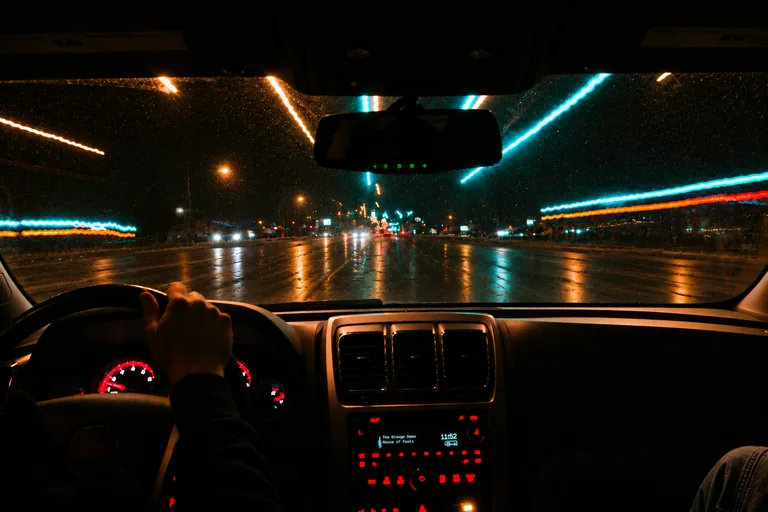
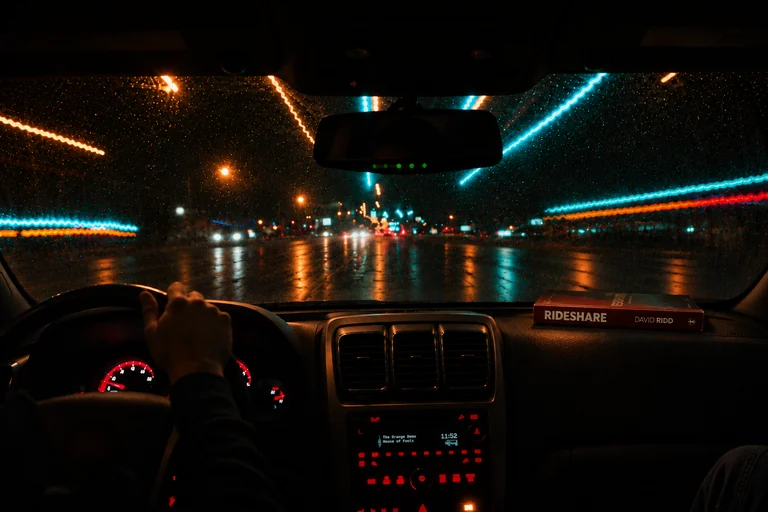
Add files via upload

diff --git a/books/rideshare/index.html b/books/rideshare/index.html
@@ -6,20 +6,21 @@
   <meta http-equiv="Content-Security-Policy" content="default-src 'self'; script-src 'self' https://gc.zgo.at; style-src 'self' https://fonts.googleapis.com; font-src https://fonts.gstatic.com; img-src 'self' data: https://*.goatcounter.com; connect-src https://*.goatcounter.com; frame-src https://bipedalpress.substack.com; form-action 'self'; base-uri 'self'; object-src 'none'">
   <meta name="referrer" content="strict-origin-when-cross-origin">
   <title>RIDESHARE by David Ridd | Dystopian Fiction | Bipedal Press</title>
-  <meta name="description" content="RIDESHARE is dystopian literary fiction by David Ridd, the first book from Bipedal Press. Watch the teaser, meet the author, and join the newsletter.">
+  <meta name="description" content="No one expects the bomb to drop. RIDESHARE is dystopian literary fiction by David Ridd, the first book from Bipedal Press. See the cover and sign up.">
   <link rel="canonical" href="https://bipedalpress.com/books/rideshare/">
   <meta property="og:type" content="website">
   <meta property="og:site_name" content="Bipedal Press">
   <meta property="og:title" content="RIDESHARE by David Ridd | Dystopian Fiction | Bipedal Press">
-  <meta property="og:description" content="Dystopian literary fiction by David Ridd, the first book from Bipedal Press. Watch the teaser and join the newsletter for the cover reveal.">
+  <meta property="og:description" content="No one expects the bomb to drop. See the cover of RIDESHARE, dystopian literary fiction by David Ridd.">
   <meta property="og:image" content="https://bipedalpress.com/images/rideshare-og.jpg">
   <meta property="og:image:width" content="1200">
   <meta property="og:image:height" content="630">
-  <meta property="og:image:alt" content="The view from a car at night on a wet city road, with the Bipedal Press logo in the rearview mirror.">
+  <meta property="og:image:alt" content="The cover of RIDESHARE: A Prelude by David Ridd, a red and charcoal hardcover with the title in large white letters.">
   <meta property="og:url" content="https://bipedalpress.com/books/rideshare/">
   <meta name="twitter:card" content="summary_large_image">
   <meta name="twitter:title" content="RIDESHARE by David Ridd | Dystopian Fiction | Bipedal Press">
   <meta name="twitter:image" content="https://bipedalpress.com/images/rideshare-og.jpg">
+  <meta name="twitter:image:alt" content="The cover of RIDESHARE: A Prelude by David Ridd, a red and charcoal hardcover with the title in large white letters.">
   <meta name="theme-color" content="#07060b">
   <link rel="icon" href="../../favicon.ico" sizes="any">
   <link rel="icon" type="image/png" href="../../images/favicon.png">
@@ -62,7 +63,9 @@
     "name": "Bipedal Press",
     "url": "https://bipedalpress.com/"
   },
-  "description": "The first book from Bipedal Press."
+  "alternativeHeadline": "A Prelude",
+  "image": "https://bipedalpress.com/books/rideshare/rideshare-cover.webp",
+  "description": "No one expects the bomb to drop. A firing-squad execution of seventeen soldiers puts rideshare driver Victor Hartwell’s hometown of Foster on the national stage, and makes traffic hell. Pushing through chronic sleep deprivation and dreaming of a call he knows won’t come, Vic hustles to pay back an impossible debt, or at least catch a movie. His back seat is a cross-section of a city consumed by whispers of civil war, the seductive solace of synthetic relationships, and the tightening threads of megacorps as people escape into Ether. Here, strangers connect and unravel. Through his rearview mirror, Vic becomes entangled in the undoing of some, the stubborn persistence of others, and the insulated glamour of executives thriving in the chaos. RIDESHARE weaves Vic’s story with found footage, in-world documents, and testimonies that reveal the widening cracks of society on a day that everyone will remember—when all Vic wants to do is forget."
 }
   </script>
   <script type="application/ld+json">
@@ -102,15 +105,16 @@
       <header class="rs-hero">
         <h1 id="rs-title" class="rs-title">RIDESHARE</h1>
         <p class="rs-by">by David Ridd</p>
-        <p class="rs-sub">The first book from Bipedal Press. Cover reveal November 20.</p>
+        <p class="rs-sub">The first book from Bipedal Press. Cover revealed November 20.</p>
       </header>
       <figure class="scene">
         <picture>
           <source media="(max-width: 700px)" srcset="rideshare-car-768.webp">
-          <img class="scene-photo" fetchpriority="high" src="rideshare-car.webp" width="1536" height="1024" alt="The view from the passenger seat of a car driving a wet city road at night. Streaks of cyan, orange, and white light stretch across the rainy windshield. A hand rests on the steering wheel, the dashboard glows red, and the rearview mirror shows the Bipedal Press logo.">
+          <img class="scene-photo" fetchpriority="high" src="rideshare-car.webp" width="1536" height="1024" alt="The view from the passenger seat of a car driving a wet city road at night. Streaks of cyan, orange, and white light stretch across the rainy windshield. A hand rests on the steering wheel, the dashboard glows red, the radio shows The Orange Demo by House of Fools, and the rearview mirror shows the Bipedal Press logo. A copy of RIDESHARE by David Ridd rests on the dashboard.">
         </picture>
         <div class="scene-hs" aria-hidden="true">
           <button type="button" class="hs hs-mirror" data-open="dlg-teaser" tabindex="-1"><img class="hs-glass" src="rideshare-mirror-glass.webp" alt="" width="702" height="188"><span class="hs-chip hs-chip-below">Teaser</span></button>
+          <button type="button" class="hs hs-cover" data-open="dlg-cover" tabindex="-1"><span class="hs-chip hs-chip-below">The cover</span></button>
           <button type="button" class="hs hs-visor" data-open="dlg-review" tabindex="-1"><span class="hs-chip">Review copies</span></button>
           <button type="button" class="hs hs-wheel" data-open="dlg-author" tabindex="-1"><span class="hs-chip">The author</span></button>
           <button type="button" class="hs hs-gauges" data-open="dlg-count" tabindex="-1"><span class="hs-chip">Countdown</span></button>
@@ -120,11 +124,12 @@
       </figure>
     </div>
 
-    <nav class="rs-bar" aria-label="RIDESHARE: teaser, countdown, newsletter, glovebox, author, and review copies">
+    <nav class="rs-bar" aria-label="RIDESHARE: the cover, teaser, countdown, newsletter, glovebox, author, and review copies">
       <ul>
+        <li><button type="button" class="is-primary" data-open="dlg-cover" aria-haspopup="dialog"><span class="led" aria-hidden="true"></span><span class="b-name">The cover</span><span class="b-sub">See it first</span></button></li>
         <li><button type="button" data-open="dlg-teaser" aria-haspopup="dialog"><span class="led" aria-hidden="true"></span><span class="b-name">Teaser</span><span class="b-sub">Watch the video</span></button></li>
-        <li><button type="button" data-open="dlg-count" aria-haspopup="dialog"><span class="led" aria-hidden="true"></span><span class="b-name">Countdown</span><span class="b-sub">Cover reveal</span></button></li>
-        <li><button type="button" class="is-primary" data-open="dlg-news" aria-haspopup="dialog"><span class="led" aria-hidden="true"></span><span class="b-name">Tune in</span><span class="b-sub">Get the news</span></button></li>
+        <li><button type="button" data-open="dlg-count" aria-haspopup="dialog"><span class="led" aria-hidden="true"></span><span class="b-name">Countdown</span><span class="b-sub">Reveal day</span></button></li>
+        <li><button type="button" data-open="dlg-news" aria-haspopup="dialog"><span class="led" aria-hidden="true"></span><span class="b-name">Tune in</span><span class="b-sub">Get the news</span></button></li>
         <li><button type="button" data-open="dlg-glove" aria-haspopup="dialog"><span class="led" aria-hidden="true"></span><span class="b-name">Glovebox</span><span class="b-sub">Read the definition</span></button></li>
         <li><button type="button" data-open="dlg-author" aria-haspopup="dialog"><span class="led" aria-hidden="true"></span><span class="b-name">The author</span><span class="b-sub">Meet David Ridd</span></button></li>
         <li><button type="button" data-open="dlg-review" aria-haspopup="dialog"><span class="led" aria-hidden="true"></span><span class="b-name">Review copies</span><span class="b-sub">Ask for an early copy</span></button></li>
@@ -134,14 +139,37 @@
 
     <section class="rs-info" aria-labelledby="rs-info-h">
       <h2 id="rs-info-h">About RIDESHARE</h2>
-      <p>RIDESHARE by David Ridd is dystopian literary fiction, and the first book from Bipedal Press, an independent publisher in Hickory, NC. It&rsquo;s a first-person narrative with archival elements. It&rsquo;s coming soon, and we&rsquo;ll reveal the cover on November 20.</p>
-      <p>
-        <button type="button" class="rs-textbtn" data-open="dlg-teaser" aria-haspopup="dialog">Watch the teaser</button>,
-        <button type="button" class="rs-textbtn" data-open="dlg-author" aria-haspopup="dialog">meet the author</button>, or
-        <button type="button" class="rs-textbtn" data-open="dlg-news" aria-haspopup="dialog">join the newsletter</button>
-        to be the first to know. You can also <a href="rideshare-cover-reveal.ics" download>add the cover reveal to your calendar</a>.
-      </p>
+      <div class="rs-about">
+        <button type="button" class="rs-cover-btn" data-open="dlg-cover" aria-haspopup="dialog" aria-label="Open the RIDESHARE cover">
+          <img src="rideshare-cover-600.webp" width="447" height="600" alt="The cover of RIDESHARE: A Prelude by David Ridd, shown as a hardcover book standing at an angle. The left side is red with a faint map of city streets. A dark charcoal inkblot spreads in from the right edge. The title RIDESHARE is in large white capital letters, with A PRELUDE beneath it. Near the bottom it reads &ldquo;The co-author of In Your Corner&rdquo; above the name DAVID RIDD.">
+        </button>
+        <div class="rs-about-text">
+          <p class="rs-tagline"><strong>No one expects the bomb to drop.</strong></p>
+          <p>A firing-squad execution of seventeen soldiers puts rideshare driver Victor Hartwell&rsquo;s hometown of Foster on the national stage, and makes traffic hell.</p>
+          <p>Pushing through chronic sleep deprivation and dreaming of a call he knows won&rsquo;t come, Vic hustles to pay back an impossible debt, or at least catch a movie. His back seat is a cross-section of a city consumed by whispers of civil war, the seductive solace of synthetic relationships, and the tightening threads of megacorps as people escape into Ether.</p>
+          <p>Here, strangers connect and unravel. Through his rearview mirror, Vic becomes entangled in the undoing of some, the stubborn persistence of others, and the insulated glamour of executives thriving in the chaos.</p>
+          <p>RIDESHARE weaves Vic&rsquo;s story with found footage, in-world documents, and testimonies that reveal the widening cracks of society on a day that everyone will remember&mdash;when all Vic wants to do is forget.</p>
+          <p class="rs-about-cta"><button type="button" class="rs-btn" data-open="dlg-news" aria-haspopup="dialog">Sign up for updates on the release</button></p>
+          <p>
+            <button type="button" class="rs-textbtn" data-open="dlg-cover" aria-haspopup="dialog">See the cover</button>,
+            <button type="button" class="rs-textbtn" data-open="dlg-teaser" aria-haspopup="dialog">watch the teaser</button>, or
+            <button type="button" class="rs-textbtn" data-open="dlg-author" aria-haspopup="dialog">meet the author</button>.
+          </p>
+        </div>
+      </div>
+      <p class="rs-facts">RIDESHARE: A Prelude by David Ridd is dystopian literary fiction, and the first book from Bipedal Press, an independent publisher in Hickory, NC. It&rsquo;s a first-person narrative with archival elements. We revealed the cover on November 20, 2026.</p>
 
+    </section>
+
+    <section class="rs-road" aria-label="RIDESHARE on the road">
+      <picture>
+        <source media="(max-width: 700px)" srcset="rideshare-pavement-800.webp">
+        <img src="rideshare-pavement.webp" width="1424" height="1104" loading="lazy" alt="A paperback copy of RIDESHARE: A Prelude by David Ridd lying on cracked, wet asphalt at night beside a faded white road line. Red light from a puddle glows in the top corner.">
+      </picture>
+      <p class="rs-road-cta"><button type="button" class="rs-btn" data-open="dlg-news" aria-haspopup="dialog">Sign up for updates on the release</button></p>
+    </section>
+
+    <section class="rs-info">
       <h2>What is prealization?</h2>
       <div class="rs-def">
         <p class="rs-def-term">Prealization (noun):</p>
@@ -182,6 +210,27 @@
         <p>2. The process of adopting an idea or conclusion that feels like a personal epiphany but was subtly placed in one&rsquo;s mental path by technology.</p>
         <p>Black screen. Then: &ldquo;coming soon&rdquo;</p>
       </details>
+    </div>
+  </dialog>
+
+  <dialog class="rs-dialog rs-dialog-cover" id="dlg-cover" aria-labelledby="dlg-cover-h">
+    <div class="rs-dialog-in">
+      <button type="button" class="rs-close" data-close aria-label="Close the cover">&times;</button>
+      <h2 id="dlg-cover-h" class="rs-dialog-h">RIDESHARE: A Prelude</h2>
+      <div class="cover-grid">
+        <div class="cover-col">
+          <img class="cover-img" src="rideshare-cover.webp" width="846" height="1134" alt="The cover of RIDESHARE: A Prelude by David Ridd, shown as a hardcover book standing at an angle. The left side is red with a faint map of city streets. A dark charcoal inkblot spreads in from the right edge. The title RIDESHARE is in large white capital letters, with A PRELUDE beneath it. Near the bottom it reads &ldquo;The co-author of In Your Corner&rdquo; above the name DAVID RIDD.">
+          <p class="cover-cta"><button type="button" class="rs-btn" data-open="dlg-news" aria-haspopup="dialog">Sign up for updates on the release</button></p>
+        </div>
+        <div class="cover-text">
+          <p class="rs-tagline"><strong>No one expects the bomb to drop.</strong></p>
+          <p>A firing-squad execution of seventeen soldiers puts rideshare driver Victor Hartwell&rsquo;s hometown of Foster on the national stage, and makes traffic hell.</p>
+          <p>Pushing through chronic sleep deprivation and dreaming of a call he knows won&rsquo;t come, Vic hustles to pay back an impossible debt, or at least catch a movie. His back seat is a cross-section of a city consumed by whispers of civil war, the seductive solace of synthetic relationships, and the tightening threads of megacorps as people escape into Ether.</p>
+          <p>Here, strangers connect and unravel. Through his rearview mirror, Vic becomes entangled in the undoing of some, the stubborn persistence of others, and the insulated glamour of executives thriving in the chaos.</p>
+          <p>RIDESHARE weaves Vic&rsquo;s story with found footage, in-world documents, and testimonies that reveal the widening cracks of society on a day that everyone will remember&mdash;when all Vic wants to do is forget.</p>
+          <p class="rs-small">Cover revealed November 20, 2026.</p>
+        </div>
+      </div>
     </div>
   </dialog>
 

diff --git a/books/rideshare/rideshare.css b/books/rideshare/rideshare.css
@@ -19,8 +19,9 @@ body.rs { background: #07060b; color: var(--cream); }
 
 /* ---------- The button bar ---------- */
 .rs-bar { max-width: 78rem; margin: 0 auto; padding: 1.25rem var(--gutter) 1.5rem; }
-.rs-bar ul { list-style: none; margin: 0; padding: 0; display: grid; grid-template-columns: repeat(6, 1fr); gap: 0.7rem; }
-.rs-bar li { margin: 0; padding: 0; }
+.rs-bar ul { list-style: none; margin: 0; padding: 0; display: flex; flex-wrap: wrap; justify-content: center; gap: 0.7rem; }
+.rs-bar li { display: flex; margin: 0; padding: 0; flex: 0 0 calc((100% - 2.1rem) / 4); }
+@media (min-width: 1100px) { .rs-bar li { flex-basis: calc((100% - 4.2rem) / 7); } }
 .rs-bar button {
   position: relative; display: flex; flex-direction: column; gap: 0.15rem; align-items: flex-start; width: 100%; min-height: 4rem;
   padding: 0.75rem 0.8rem 0.7rem 1.9rem; text-align: left; cursor: pointer; font: inherit; color: var(--cream);
@@ -46,6 +47,7 @@ body.rs { background: #07060b; color: var(--cream); }
 }
 .hs:hover { background: rgba(222,186,96,0.08); box-shadow: inset 0 0 0 2px var(--gilt), 0 0 26px rgba(222,186,96,0.5); }
 .hs-mirror { left: 40.9%; top: 21.3%; width: 24.4%; height: 12.6%; border-radius: 22px; }
+.hs-cover  { left: 68.8%; top: 55%;   width: 23.6%; height: 11%;  border-radius: 6px; }
 .hs-visor  { left: 1%;    top: 4.4%;  width: 23.5%; height: 7%;   }
 .hs-wheel  { left: 1.9%;  top: 54.7%; width: 28.6%; height: 14.2%; }
 .hs-gauges { left: 11.1%; top: 68.9%; width: 28%;   height: 14.2%; }
@@ -79,6 +81,13 @@ body.rs { background: #07060b; color: var(--cream); }
 .rs-info h2 { margin: 2.2em 0 0.4em; font-size: clamp(1.5rem, 1.25rem + 1vw, 2rem); }
 .rs-info h2:first-child { margin-top: 0; }
 .rs-info p { max-width: none; color: rgba(255,241,211,0.9); }
+.rs-road { position: relative; width: min(100%, 1600px); margin: 0 auto; background: #07060b; }
+.rs-road img { display: block; width: 100%; height: auto; aspect-ratio: 16 / 9; object-fit: cover; object-position: 50% 50%; }
+.rs-road-cta { position: absolute; left: clamp(1rem, 5vw, 4.5rem); bottom: clamp(1rem, 7%, 3.5rem); margin: 0; }
+@media (max-width: 700px) {
+  .rs-road img { aspect-ratio: 4 / 3; }
+  .rs-road-cta { position: static; padding: 1.1rem var(--gutter) 0; text-align: center; }
+}
 .rs-def { padding: 1.1rem 1.3rem; border: 1px solid rgba(255,241,211,0.3); border-radius: 8px; font-family: "Courier New", Courier, monospace; }
 .rs-def p { margin: 0.6rem 0 0; }
 .rs-def .rs-def-term { margin: 0; font-weight: 700; font-size: 1.15rem; }
@@ -125,6 +134,25 @@ h2.rs-type { font-family: "Courier New", Courier, monospace; font-weight: 700; f
 .rv-list li { margin: 0.35rem 0; }
 .rv-list li::marker { color: var(--gilt); }
 
+/* cover */
+.rs-dialog-cover { width: min(94vw, 52rem); }
+.rs-dialog-cover .rs-dialog-h { text-align: left; }
+.cover-grid { display: grid; grid-template-columns: minmax(0, 0.85fr) minmax(0, 1.15fr); gap: clamp(1rem, 3vw, 1.75rem); align-items: start; }
+.cover-col { position: sticky; top: 0; text-align: center; }
+.cover-cta { margin: 0.9rem 0 0; }
+.cover-img { display: block; width: 100%; height: auto; max-height: 56svh; object-fit: contain; }
+.cover-text > p:first-child { margin-top: 0; }
+.rs-tagline { font-size: 1.15rem; }
+.rs-btn-row, .rs-about-cta { margin: 1.1rem 0; }
+@media (max-width: 640px) { .cover-grid { grid-template-columns: 1fr; } .cover-col { position: static; } .cover-img { max-width: 15rem; margin: 0 auto; } }
+.rs-about { display: grid; grid-template-columns: minmax(0, 12rem) minmax(0, 1fr); gap: clamp(1.25rem, 4vw, 2rem); align-items: start; }
+.rs-cover-btn { display: block; padding: 0; cursor: pointer; background: none; border: 0; border-radius: 6px; }
+.rs-cover-btn img { display: block; width: 100%; height: auto; transition: transform 0.2s; }
+.rs-cover-btn:hover img { transform: translateY(-3px); }
+.rs-about-text > p:first-child { margin-top: 0; }
+.rs-facts { margin-top: 1.75rem; font-size: 0.95rem; }
+@media (max-width: 560px) { .rs-about { grid-template-columns: 1fr; } .rs-cover-btn { max-width: 14rem; margin: 0 auto; } }
+
 /* author */
 .rs-dialog-author { width: min(94vw, 42rem); }
 .author { display: grid; grid-template-columns: minmax(0, 0.8fr) minmax(0, 1.2fr); gap: clamp(1rem, 3vw, 1.75rem); align-items: start; }
@@ -145,8 +173,8 @@ h2.rs-type { font-family: "Courier New", Courier, monospace; font-weight: 700; f
 .dial small { margin-top: 0.15rem; font: 700 0.62rem/1 "Libre Franklin", sans-serif; letter-spacing: 0.1em; text-transform: uppercase; color: rgba(255,241,211,0.75); }
 
 .cd-cal { margin: 1.25rem 0 0; }
-.rs a.rs-btn { display: inline-block; padding: 0.6em 1.2em; font-weight: 700; text-decoration: none; color: #15130e; background: var(--gilt); border: 2px solid var(--gilt); border-radius: 999px; }
-.rs a.rs-btn:hover { background: transparent; color: var(--gilt); }
+.rs a.rs-btn, .rs button.rs-btn { display: inline-block; padding: 0.6em 1.2em; font-weight: 700; text-decoration: none; color: #15130e; background: var(--gilt); border: 2px solid var(--gilt); border-radius: 999px; }
+.rs a.rs-btn:hover, .rs button.rs-btn:hover { background: transparent; color: var(--gilt); }
 
 /* newsletter: the radio */
 .rs-dialog-radio { width: min(94vw, 34rem); background: linear-gradient(#15131a, #09080c); border-color: #4a4753; border-radius: 18px; }
@@ -163,9 +191,10 @@ h2.rs-type { font-family: "Courier New", Courier, monospace; font-weight: 700; f
 
 /* ---------- Phones and small tablets ---------- */
 @media (max-width: 820px) {
-  .rs-bar ul { grid-template-columns: repeat(2, 1fr); }
+  .rs-bar li { flex-basis: calc((100% - 0.7rem) / 2); }
+  .rs-bar li:first-child { flex-basis: 100%; }
   .rs-bar button { min-height: 4.2rem; }
-  .hs-chip, .hs-visor, .hs-wheel, .hs-gauges, .hs-radio, .hs-glove { display: none; }   /* small targets on a phone: the bar does the work */
+  .hs-chip, .hs-cover, .hs-visor, .hs-wheel, .hs-gauges, .hs-radio, .hs-glove { display: none; }   /* small targets on a phone: the bar does the work */
   .author { grid-template-columns: 1fr; }
   .author img { max-width: 14rem; }
 }
@@ -176,5 +205,5 @@ h2.rs-type { font-family: "Courier New", Courier, monospace; font-weight: 700; f
 
 @media (prefers-reduced-motion: reduce) {
   .hs-chip::before { animation: none; }
-  .hs, .hs-glass { transition: none; }
+  .hs, .hs-glass, .rs-cover-btn img { transition: none; }
 }

diff --git a/books/rideshare/rideshare.js b/books/rideshare/rideshare.js
@@ -1,5 +1,5 @@
 /* RIDESHARE page script.
-   1. Opens and closes the pop-up windows (teaser, countdown, newsletter, glovebox, author).
+   1. Opens and closes the pop-up windows (cover, teaser, countdown, newsletter, glovebox, author, review copies).
    2. Runs the cover reveal countdown. The date lives in index.html, on the element with id="countdown",
       in the data-reveal attribute. Use this form: 2026-11-20T00:00:00-05:00 (date, time, then the time zone offset;
       -05:00 is Eastern standard time). Leave it empty and the window says "Date coming soon". */
@@ -16,6 +16,7 @@
   function openDialog(id) {
     var d = document.getElementById(id);
     if (!d) return;
+    dialogs.forEach(function (o) { if (o !== d && o.open && o.close) o.close(); });   // one window at a time
     var frame = d.querySelector('iframe[data-src]');
     if (frame && !frame.getAttribute('src')) frame.setAttribute('src', frame.getAttribute('data-src'));
     if (typeof d.showModal === 'function') { if (!d.open) d.showModal(); }
@@ -39,7 +40,7 @@
   });
 
   // Links like /books/rideshare/#teaser open a window straight away.
-  var byHash = { '#teaser': 'dlg-teaser', '#countdown': 'dlg-count', '#newsletter': 'dlg-news', '#glovebox': 'dlg-glove', '#author': 'dlg-author', '#review': 'dlg-review' };
+  var byHash = { '#cover': 'dlg-cover', '#teaser': 'dlg-teaser', '#countdown': 'dlg-count', '#newsletter': 'dlg-news', '#glovebox': 'dlg-glove', '#author': 'dlg-author', '#review': 'dlg-review' };
   function fromHash() { if (byHash[location.hash]) openDialog(byHash[location.hash]); }
   fromHash();
   window.addEventListener('hashchange', fromHash);
@@ -64,8 +65,9 @@
     var s = Math.floor((target - Date.now()) / 1000);
     if (s <= 0) {
       Object.keys(units).forEach(function (k) { units[k].textContent = '00'; });
-      note.textContent = 'It is reveal day.';
-      if (sr) sr.textContent = 'It is reveal day.';
+      note.textContent = 'The cover is out.';
+      if (sr) sr.textContent = 'The cover is out.';
+      var cal = cd.querySelector('.cd-cal'); if (cal) cal.hidden = true;   // no point adding a passed date to a calendar
       clearInterval(timer);
       return;
     }

diff --git a/books/index.html b/books/index.html
@@ -6,12 +6,12 @@
   <meta http-equiv="Content-Security-Policy" content="default-src 'self'; script-src 'self' https://gc.zgo.at; style-src 'self' https://fonts.googleapis.com; font-src https://fonts.gstatic.com; img-src 'self' data: https://*.goatcounter.com; connect-src https://*.goatcounter.com; frame-src https://bipedalpress.substack.com; form-action 'self'; base-uri 'self'; object-src 'none'">
   <meta name="referrer" content="strict-origin-when-cross-origin">
   <title>Books | Bipedal Press</title>
-  <meta name="description" content="Books from Bipedal Press, an independent publisher in Hickory, NC. Our first book, RIDESHARE, is coming soon.">
+  <meta name="description" content="Books from Bipedal Press, an independent publisher in Hickory, NC. Our first book, RIDESHARE, has its cover. See it here.">
   <link rel="canonical" href="https://bipedalpress.com/books/">
   <meta property="og:type" content="website">
   <meta property="og:site_name" content="Bipedal Press">
   <meta property="og:title" content="Books | Bipedal Press">
-  <meta property="og:description" content="Books from Bipedal Press. Our first book, RIDESHARE, is coming soon.">
+  <meta property="og:description" content="Books from Bipedal Press. Our first book, RIDESHARE, has its cover. See it here.">
   <meta property="og:image" content="https://bipedalpress.com/images/og-image.jpg">
   <meta property="og:url" content="https://bipedalpress.com/books/">
   <meta name="twitter:card" content="summary_large_image">
@@ -50,9 +50,9 @@
     </section>
 
     <section class="books-list">
-      <p class="coming-label books-label">Coming soon</p>
+      <p class="coming-label books-label">Cover revealed</p>
       <p><a class="btn" href="rideshare/">RIDESHARE by David Ridd</a></p>
-      <p>Dystopian literary fiction by David Ridd, and the first book from Bipedal Press. Watch the teaser, meet the author, and join the newsletter for the cover reveal.</p>
+      <p>Dystopian literary fiction by David Ridd, and the first book from Bipedal Press. See the cover, watch the teaser, meet the author, and join the newsletter.</p>
     </section>
   </main>
 

diff --git a/index.html b/index.html
@@ -90,12 +90,12 @@
 
     <section class="coming" aria-labelledby="coming-h">
       <div class="coming-inner">
-        <img src="books/rideshare/rideshare-car-768.webp" alt="" width="768" height="512" loading="lazy">
+        <img src="books/rideshare/rideshare-car-768.webp" alt="The view from the passenger seat of a car on a wet city road at night, with a copy of RIDESHARE by David Ridd resting on the dashboard." width="768" height="512" loading="lazy">
         <div class="coming-copy">
-          <p class="coming-label">Coming soon</p>
+          <p class="coming-label">Cover reveal</p>
           <h2 id="coming-h">RIDESHARE</h2>
           <p class="coming-by">by David Ridd</p>
-          <p>Our first book, dystopian literary fiction by David Ridd. Watch the teaser, meet the author, and join us for the cover reveal on November 20.</p>
+          <p>Our first book, dystopian literary fiction by David Ridd. No one expects the bomb to drop. See the cover, watch the teaser, and sign up for updates on the release.</p>
           <p class="actions"><a class="btn" href="books/rideshare/">See RIDESHARE</a></p>
         </div>
       </div>
